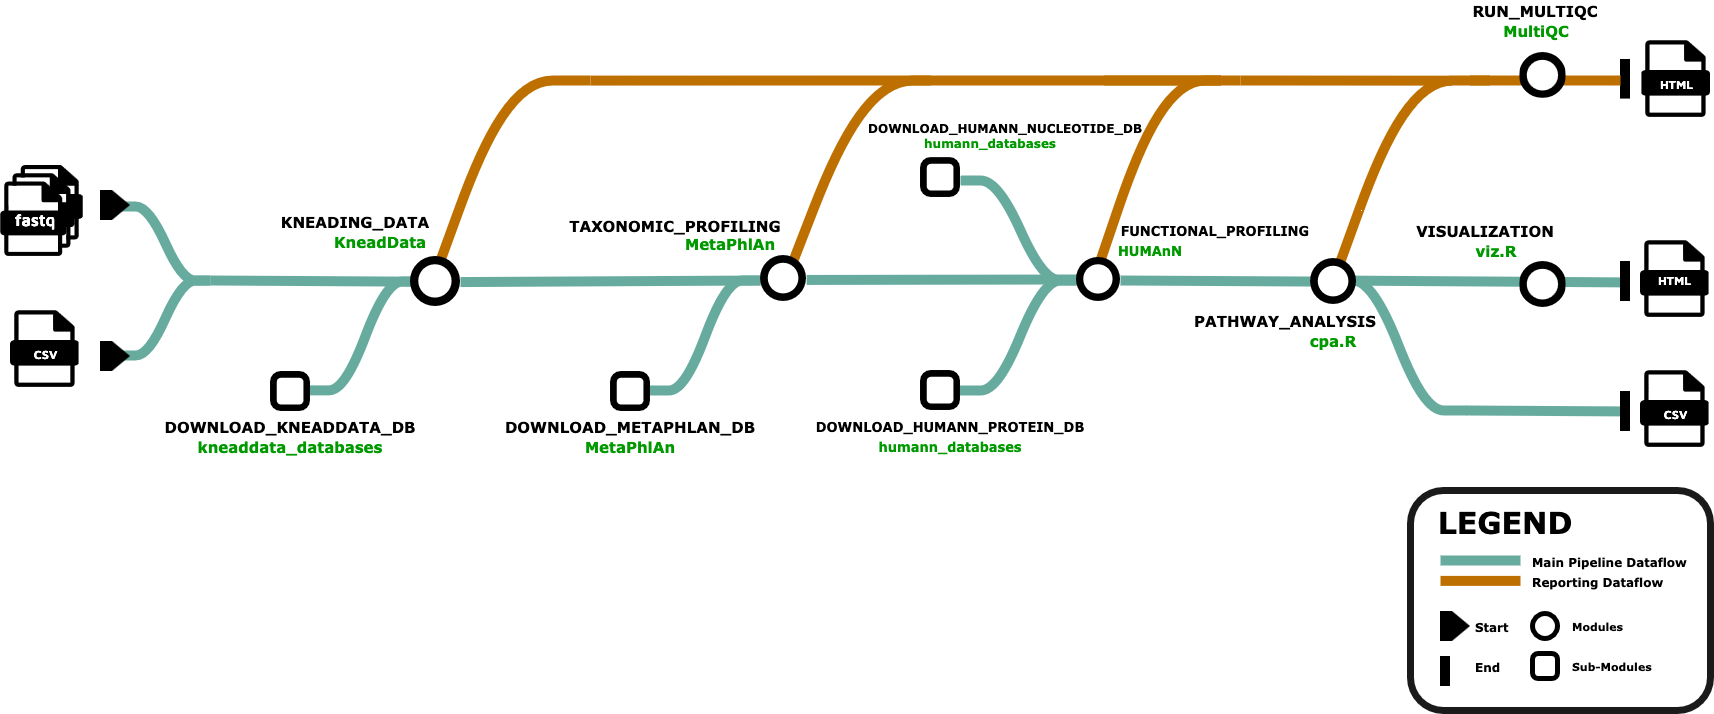
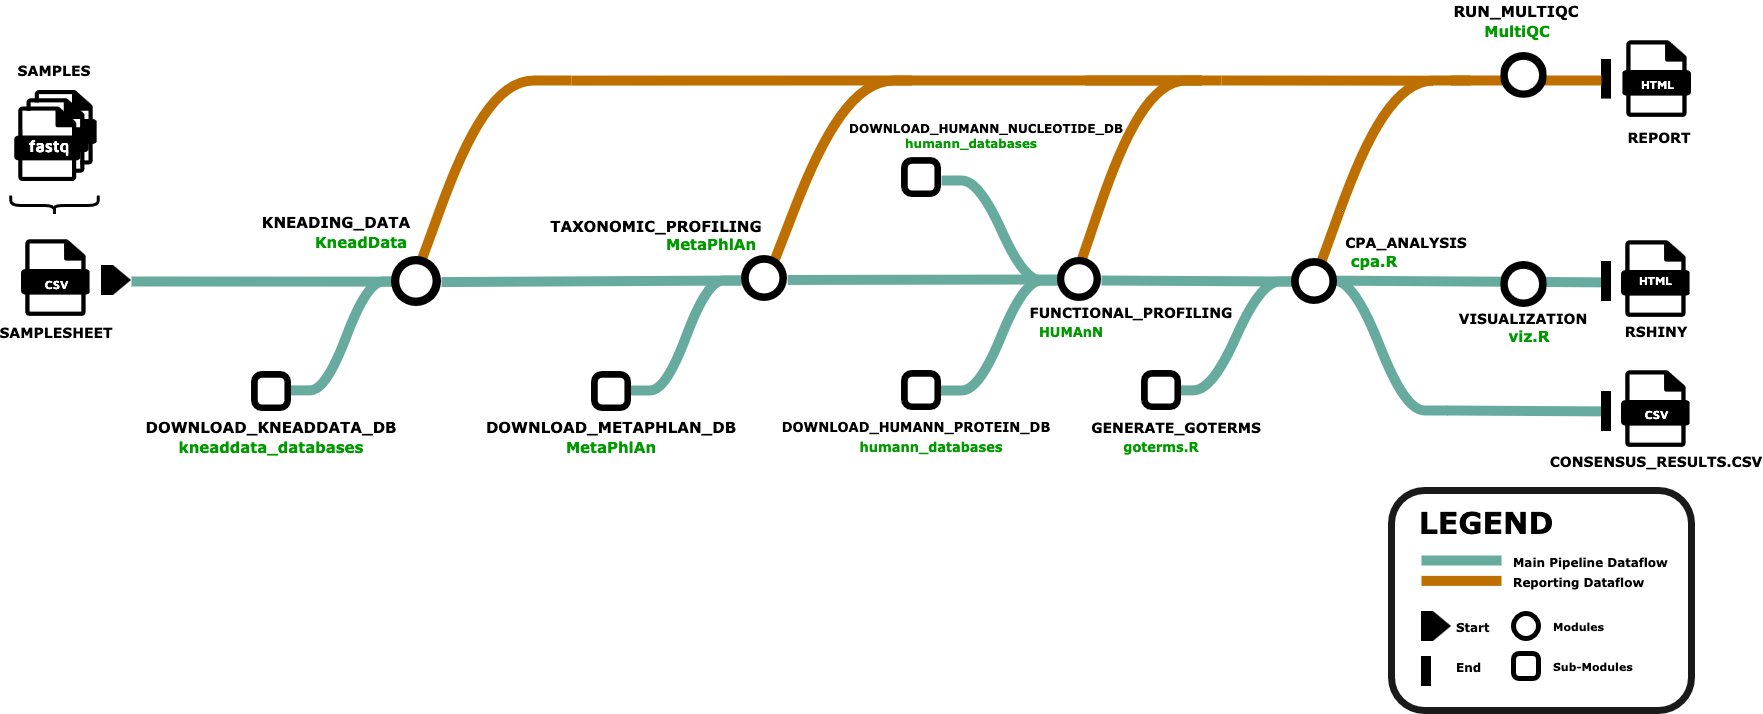
Updates
- Added and fixed CPA analysis
- Added new column (factor) to the samplesheet for meta-info
- Added new pipeline summary image

Changed region(s): [[0.2783, 0.0, 1.0, 1.0], [0.0618, 0.0924, 0.3401, 0.6471], [0.0, 0.0924, 0.1546, 0.5546]]

diff --git a/README.md b/README.md
@@ -10,11 +10,12 @@
 
 Download the data from [**Open Science Data Repository (OSDR)**](https://www.nasa.gov/osdr/). We are currently using the [_OSD-809_](https://osdr.nasa.gov/bio/repo/data/studies/OSD-809) dataset.
 Description: Effects of an anaerobic membrance bioreactor upset event on nitrogen speciation and microbial community in a downstream phototrophic membrane bioreactor.
-Factors: 'Time'
-Assay: Metagenomic sequencing - Whole Genome Shotgun Sequencing - Illumina Nextera Kit
-Device Platform: Illumina
-Samples: 12
-Sample Type: Paired-end
+
+* Factors: 'Time'
+* Assay: Metagenomic sequencing - Whole Genome Shotgun Sequencing - Illumina Nextera Kit
+* Device Platform: Illumina
+* Samples: 12
+* Sample Type: Paired-end
 
 ## Usage
 
